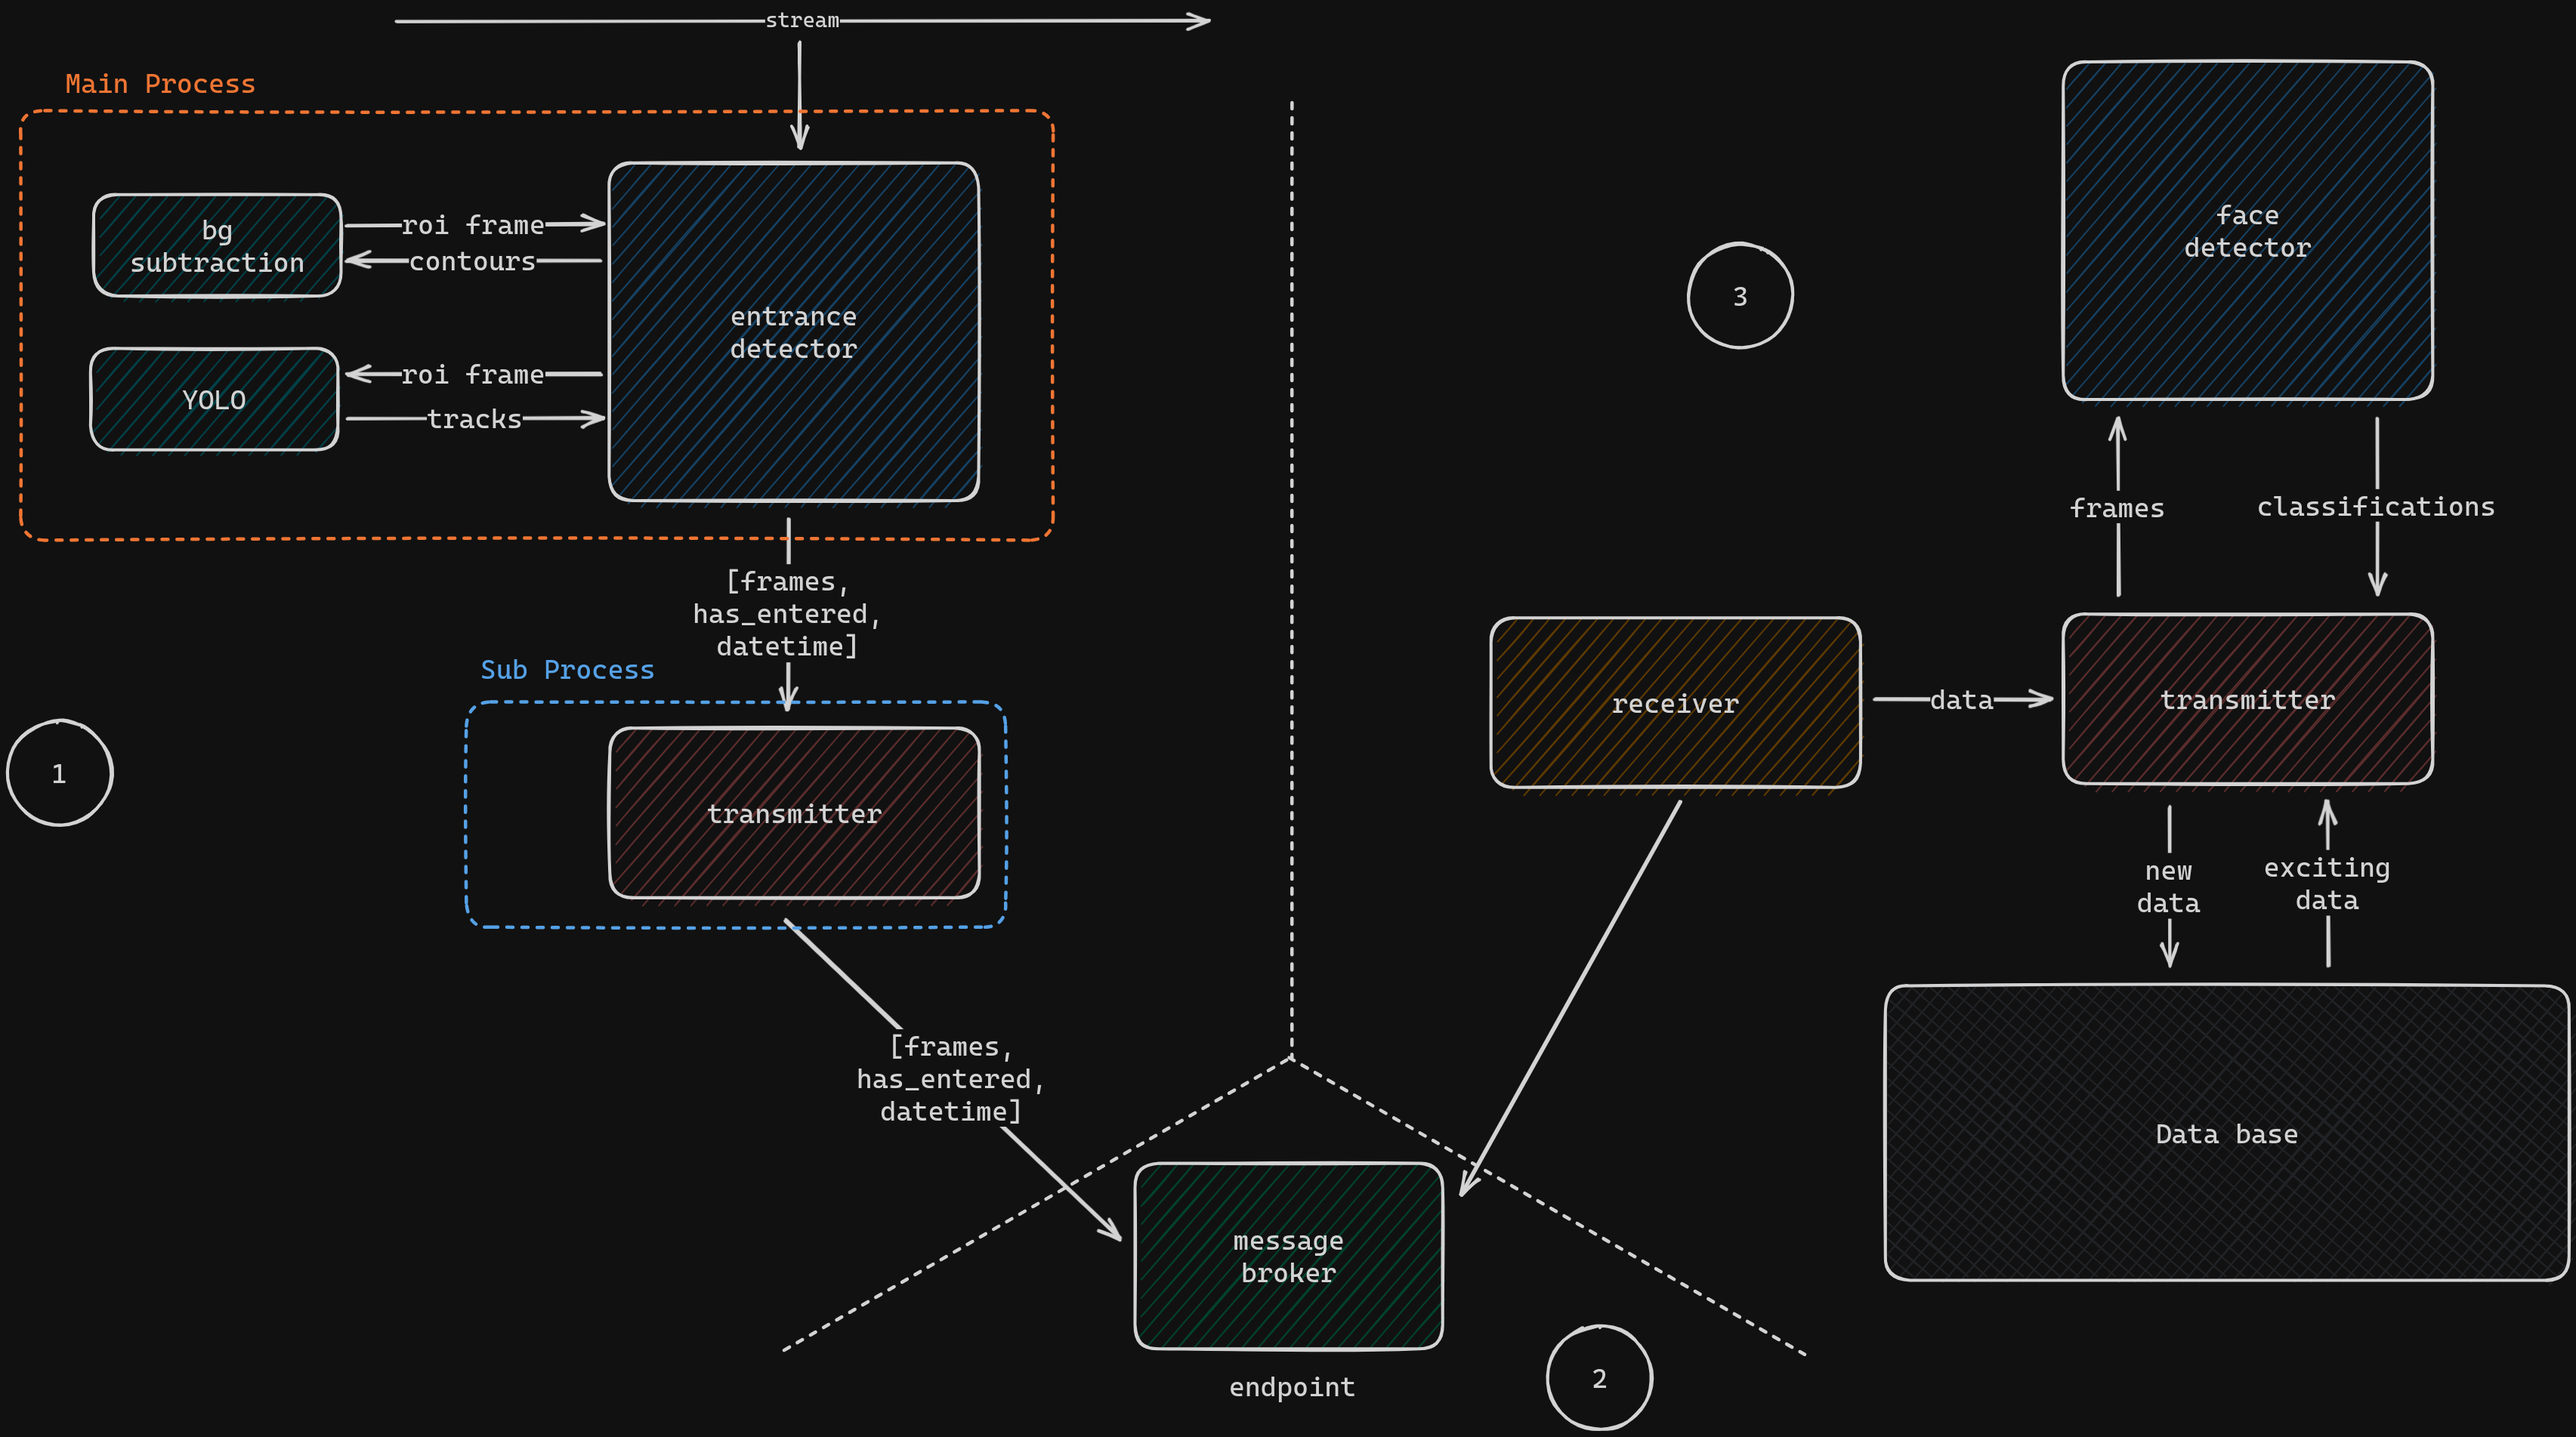
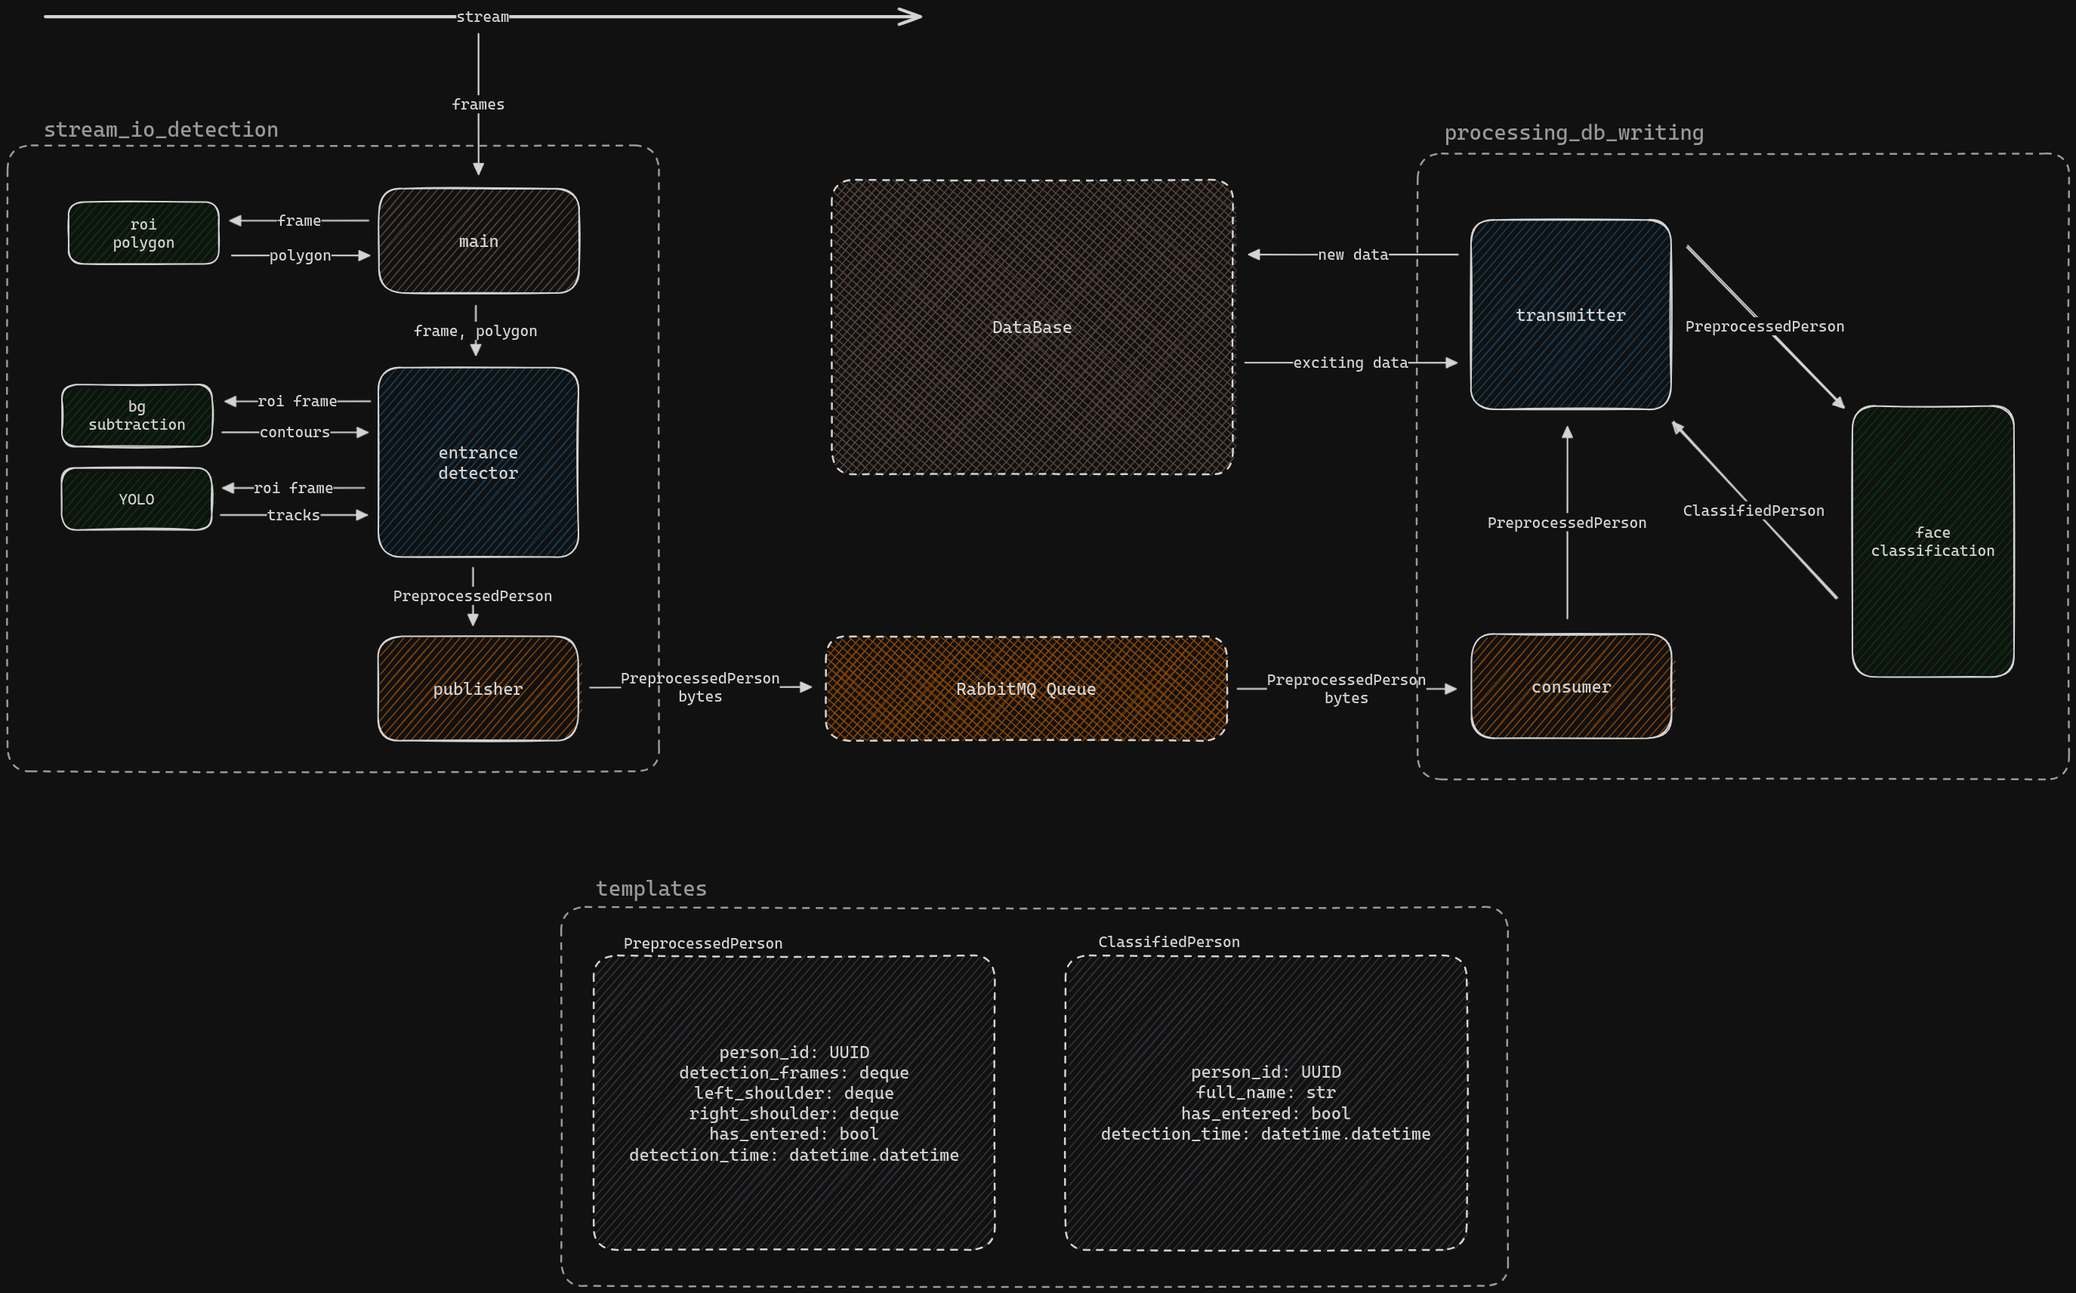
Переделал архитектуру + добавил новый шаблон.

diff --git a/utils/templates.py b/utils/templates.py
@@ -62,3 +62,18 @@ class PreprocessedPerson(BaseModel):
     right_shoulder: deque = deque(maxlen=25)
     has_entered: bool = True
     detection_time: datetime.datetime = datetime.datetime.now()
+
+
+class ClassifiedPerson(BaseModel):
+    """
+    Структура данных для человека, прошедшего классфикацию
+    Parameters:
+        person_id: уникальный id;
+        classification: ФИО работника (возможно, id);
+        has_entered: вошел человек или нет;
+        detection_time: время обнаружения.
+    """
+    person_id: UUID = Field(default_factory=uuid4)
+    classification: str = ""
+    has_entered: bool = True
+    detection_time: datetime.datetime = datetime.datetime.now()
